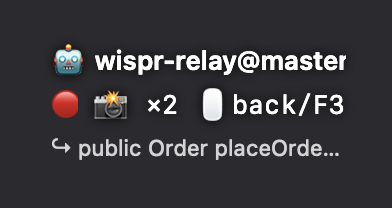
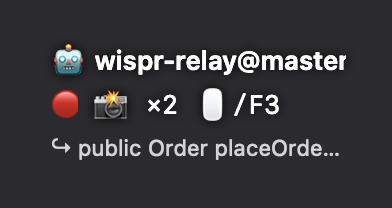
Drop the two labels that were only telling him what he knew
The context shot's `0:00` is gone from the prompt's picture line — it is
always zero, by definition, so it was a column of nothing pushing the
stamps that do mean something to the right. `📸 ×2 0:38` now, and a
dictation carrying only the automatic shot reads `📸 ×1` with nothing
after it. The count still includes it.

And the recording row's hint is `🖱/F3`: the word "back" said which
button exactly once, on the first dictation after it appeared, and after
that the hand knows. The glyph stays — that half is what a keyboard-only
hint could never suggest. Documentation pictures reshot.

Changed region(s): [[0.5816, 0.4327, 0.8878, 0.5769]]

diff --git a/Sources/WisprRelay/RelayWindow.swift b/Sources/WisprRelay/RelayWindow.swift
@@ -93,11 +93,12 @@ final class RelayWindow: NSObject, NSWindowDelegate {
     /// would read as the Return key having broken. Naming it here means the row
     /// and the behaviour appear and disappear together.
     ///
-    /// Written tight — `🖱back/F3`, no spaces around the slash. The row rides
-    /// under the cursor over his actual work, and the two words are a reminder,
-    /// not a sentence: every character of separator between them is width taken
-    /// from the thing he is looking at underneath.
-    private static let shotHint = "🖱back/F3"
+    /// Written as tight as it goes — `🖱/F3`. The word "back" went too: the mouse
+    /// glyph is the mouse, and which of its buttons is the one the hand already
+    /// knows by the second dictation. The row rides under the cursor over his
+    /// actual work, so every character it does not need is width taken from the
+    /// thing he is looking at underneath.
+    private static let shotHint = "🖱/F3"
 
     /// The subtitle row is now flashes only. The shortcut legend used to live here
     /// and has moved into the recording row, where it sits beside the number it

diff --git a/Sources/WisprRelay/AppDelegate.swift b/Sources/WisprRelay/AppDelegate.swift
@@ -416,12 +416,19 @@ final class AppDelegate: NSObject, NSApplicationDelegate {
     ///
     /// Relative to the dictation, never wall-clock: the shots exist only as parts
     /// of this message, and 15:22:07 says nothing about where in it he was.
+    ///
+    /// **The context shot's `0:00` is not printed.** It is the one stamp that
+    /// carries no information — the automatic capture is always at zero, by
+    /// definition — so it only pushed the stamps that do mean something one
+    /// column to the right. The count still includes it; what is listed are the
+    /// moments he chose.
     private static func shotLine(_ offsets: [TimeInterval]) -> String? {
         guard !offsets.isEmpty else { return nil }
-        let stamps = offsets.map { offset -> String in
+        let stamps = offsets.filter { $0 > 0 }.map { offset -> String in
             let s = max(0, Int(offset.rounded()))
             return String(format: "%d:%02d", s / 60, s % 60)
         }
+        guard !stamps.isEmpty else { return "📸 ×\(offsets.count)" }
         return "📸 ×\(offsets.count) " + stamps.joined(separator: " · ")
     }
 

diff --git a/CLAUDE.md b/CLAUDE.md
@@ -18,7 +18,7 @@ are unaffected, and the dictation content itself is obviously whatever language
 he spoke.
 
 Current strings live in `RelayWindow.swift`:
-- `Self.shotHint` + `recordText` — the recording row (`🔴 📸 ×2 🖱back/F3`)
+- `Self.shotHint` + `recordText` — the recording row (`🔴 📸 ×2 🖱/F3`)
 - `titleText` — `🤖 <label>` / `⏸ 🤖 <label>`
 - `flash(_:)` / `flashTitle(_:)` call sites in `AppDelegate.swift`
 - `StatusItem.swift` — the menu bar item's `Pause` / `Resume` / `Exit`
@@ -86,7 +86,7 @@ While dictating and not paused, one row sits directly under the title:
 
 ```
 🤖 ai@master
-🔴 📸 ×2 🖱back/F3
+🔴 📸 ×2 🖱/F3
 ```
 
 That is the whole of what the overlay says during a dictation, and it is Victor's
@@ -110,6 +110,13 @@ only things that do anything while he talks, and they belong beside the number
 they change. The mouse is named first because it is the half that needs saying:
 F3 has always been there, while the back button is borrowed only for the length
 of the dictation.
+
+**The glyph alone names the mouse** — `🖱/F3`, not `🖱back/F3`. The word said
+*which button* exactly once, on the first dictation after it was introduced;
+after that the hand knows, and what remained was three characters of width taken
+out of a row riding over the work he is looking at. The 🖱 still has to be
+there — that half of the pair is the one a keyboard-shaped hint would never
+suggest.
 
 ## Mouse 4 is the shutter, but only while dictating
 
@@ -284,21 +291,26 @@ remains the tool for work already under way.
 ```
 ↪ public Order placeOrder(Cart cart) {
 extract the tax calculation out of this method
-📸 ×2 0:00 · 0:38
+📸 ×2 0:38
 ```
 
 `AppDelegate.shotLine` builds it, and the stamps are **m:ss from the moment the
 dictation opened**, not wall-clock. The count on its own answers "did my shots
 land"; it does not answer the question he has a few seconds later, which is
 *which* moments he caught. In a three-minute dictation `📸 ×4` is four
-indistinguishable files, while `0:00 · 0:38 · 1:52 · 2:41` is a table of
+indistinguishable files, while `0:38 · 1:52 · 2:41` is a table of
 contents — and this panel, with the Cancel clock running, is the last instant at
 which noticing a missing one is free. Wall-clock would say nothing here: the
 shots exist only as parts of this message, and `15:22:07` does not locate a
 moment *inside* it.
 
-The first stamp is `0:00` whenever there is a context screen, because that shot
-was taken by starting to talk. The count is therefore built from `pendingScreen`
+**The context screen is counted but not stamped.** It is always at zero — he
+took it by starting to talk — so its `0:00` is the one stamp that carries no
+information, and printing it only pushed the stamps that do mean something a
+column to the right. What is listed are the moments he chose; a dictation whose
+only picture is the automatic one therefore reads `📸 ×1`, with nothing after it.
+
+The count is built from `pendingScreen`
 plus `pendingShotOffsets`, **not** from `attached` — the screen travels in its
 own outbox field, so counting `attached` would print a total one lower than the
 `📸 ×N` he just watched climb in the recording row. The `🎙 sent + N 📸` flash

diff --git a/README.md b/README.md
@@ -24,7 +24,7 @@ shows. It disappears while you type and comes back when you move the mouse.
 
 When dictation starts the chip stays where it is and grows one row: a pulsing 🔴,
 how many pictures the message is carrying, and the two ways to add another
-(`🔴 📸 ×2 🖱back/F3`). Behind that row the screen is photographed, whatever was
+(`🔴 📸 ×2 🖱/F3`). Behind that row the screen is photographed, whatever was
 selected is captured and frozen for the whole dictation, and either the **back
 mouse button** or **F3** attaches extra screenshots as you talk — the count going
 up is the receipt.
@@ -43,7 +43,7 @@ in the queue the agent may already be acting on it, so the only honest moment to
 cancel is before it is written.
 
 Its last line is the pictures it carries and **when each was taken**, as m:ss
-from the moment you started talking (`📸 ×2 0:00 · 0:38`). The count says the
+from the moment you started talking (`📸 ×2 0:38`). The count says the
 shots landed; the times say *which* moments you caught, which is the thing you
 cannot reconstruct once the panel is gone.
 
